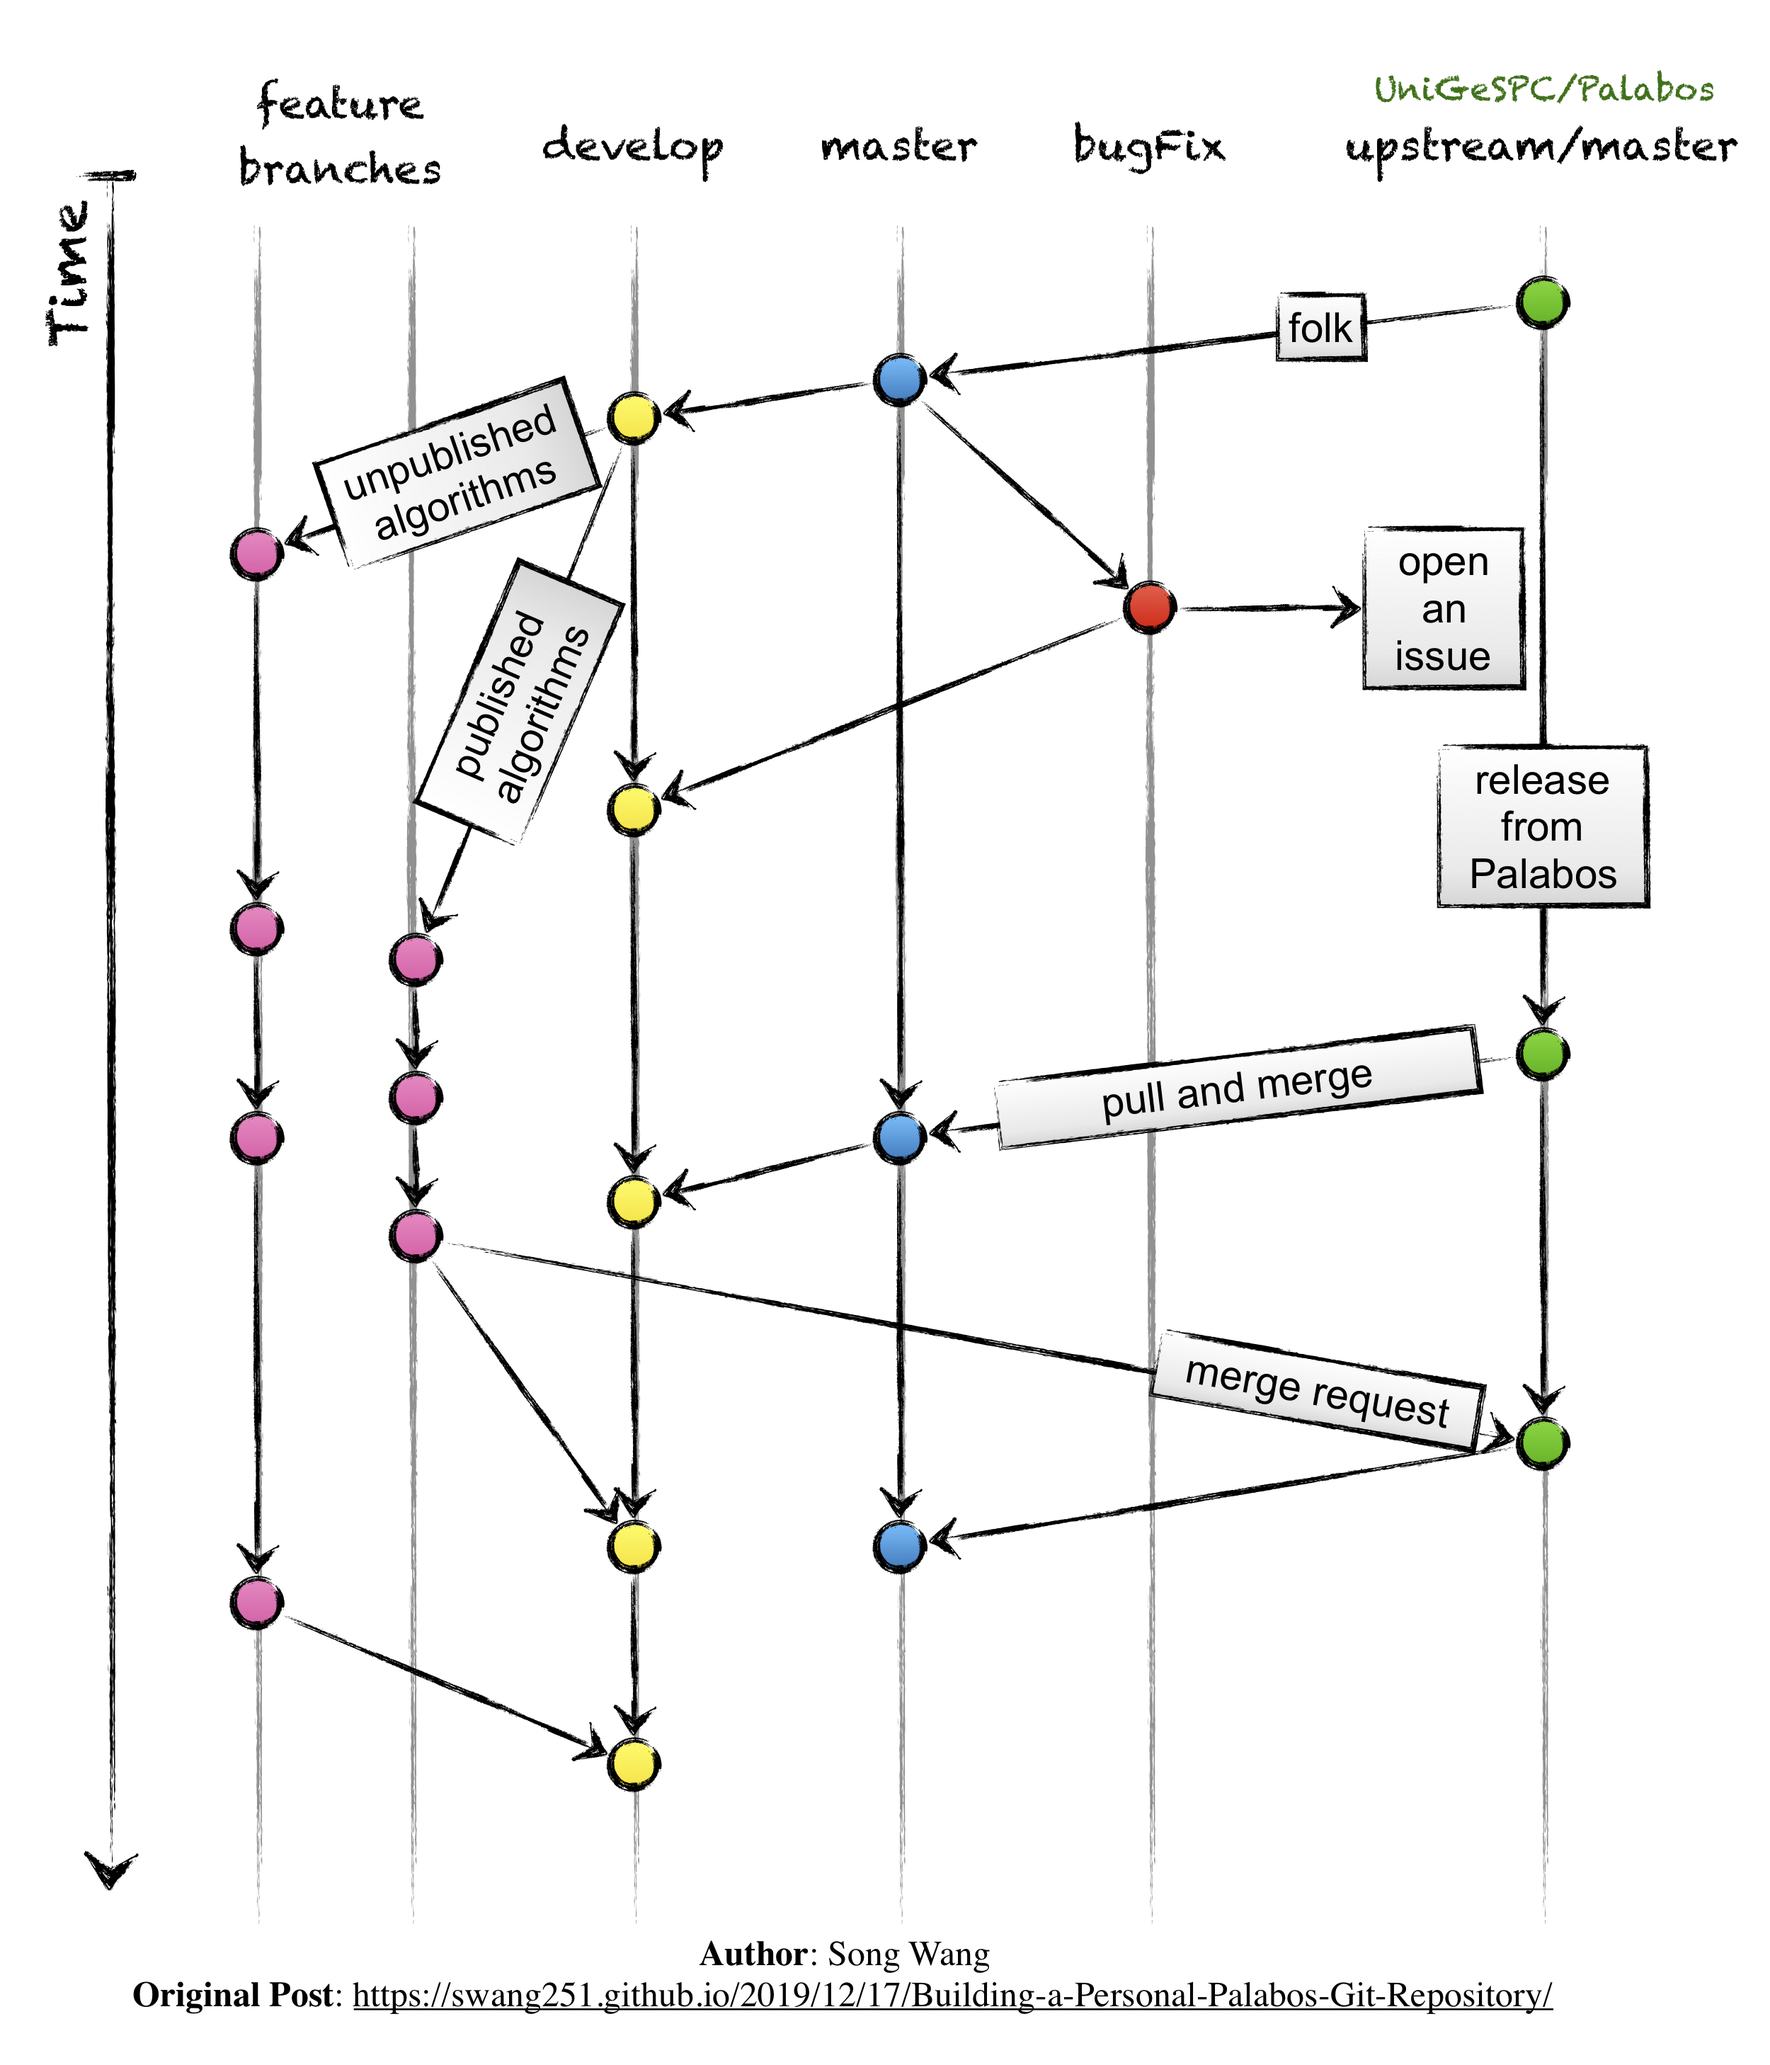
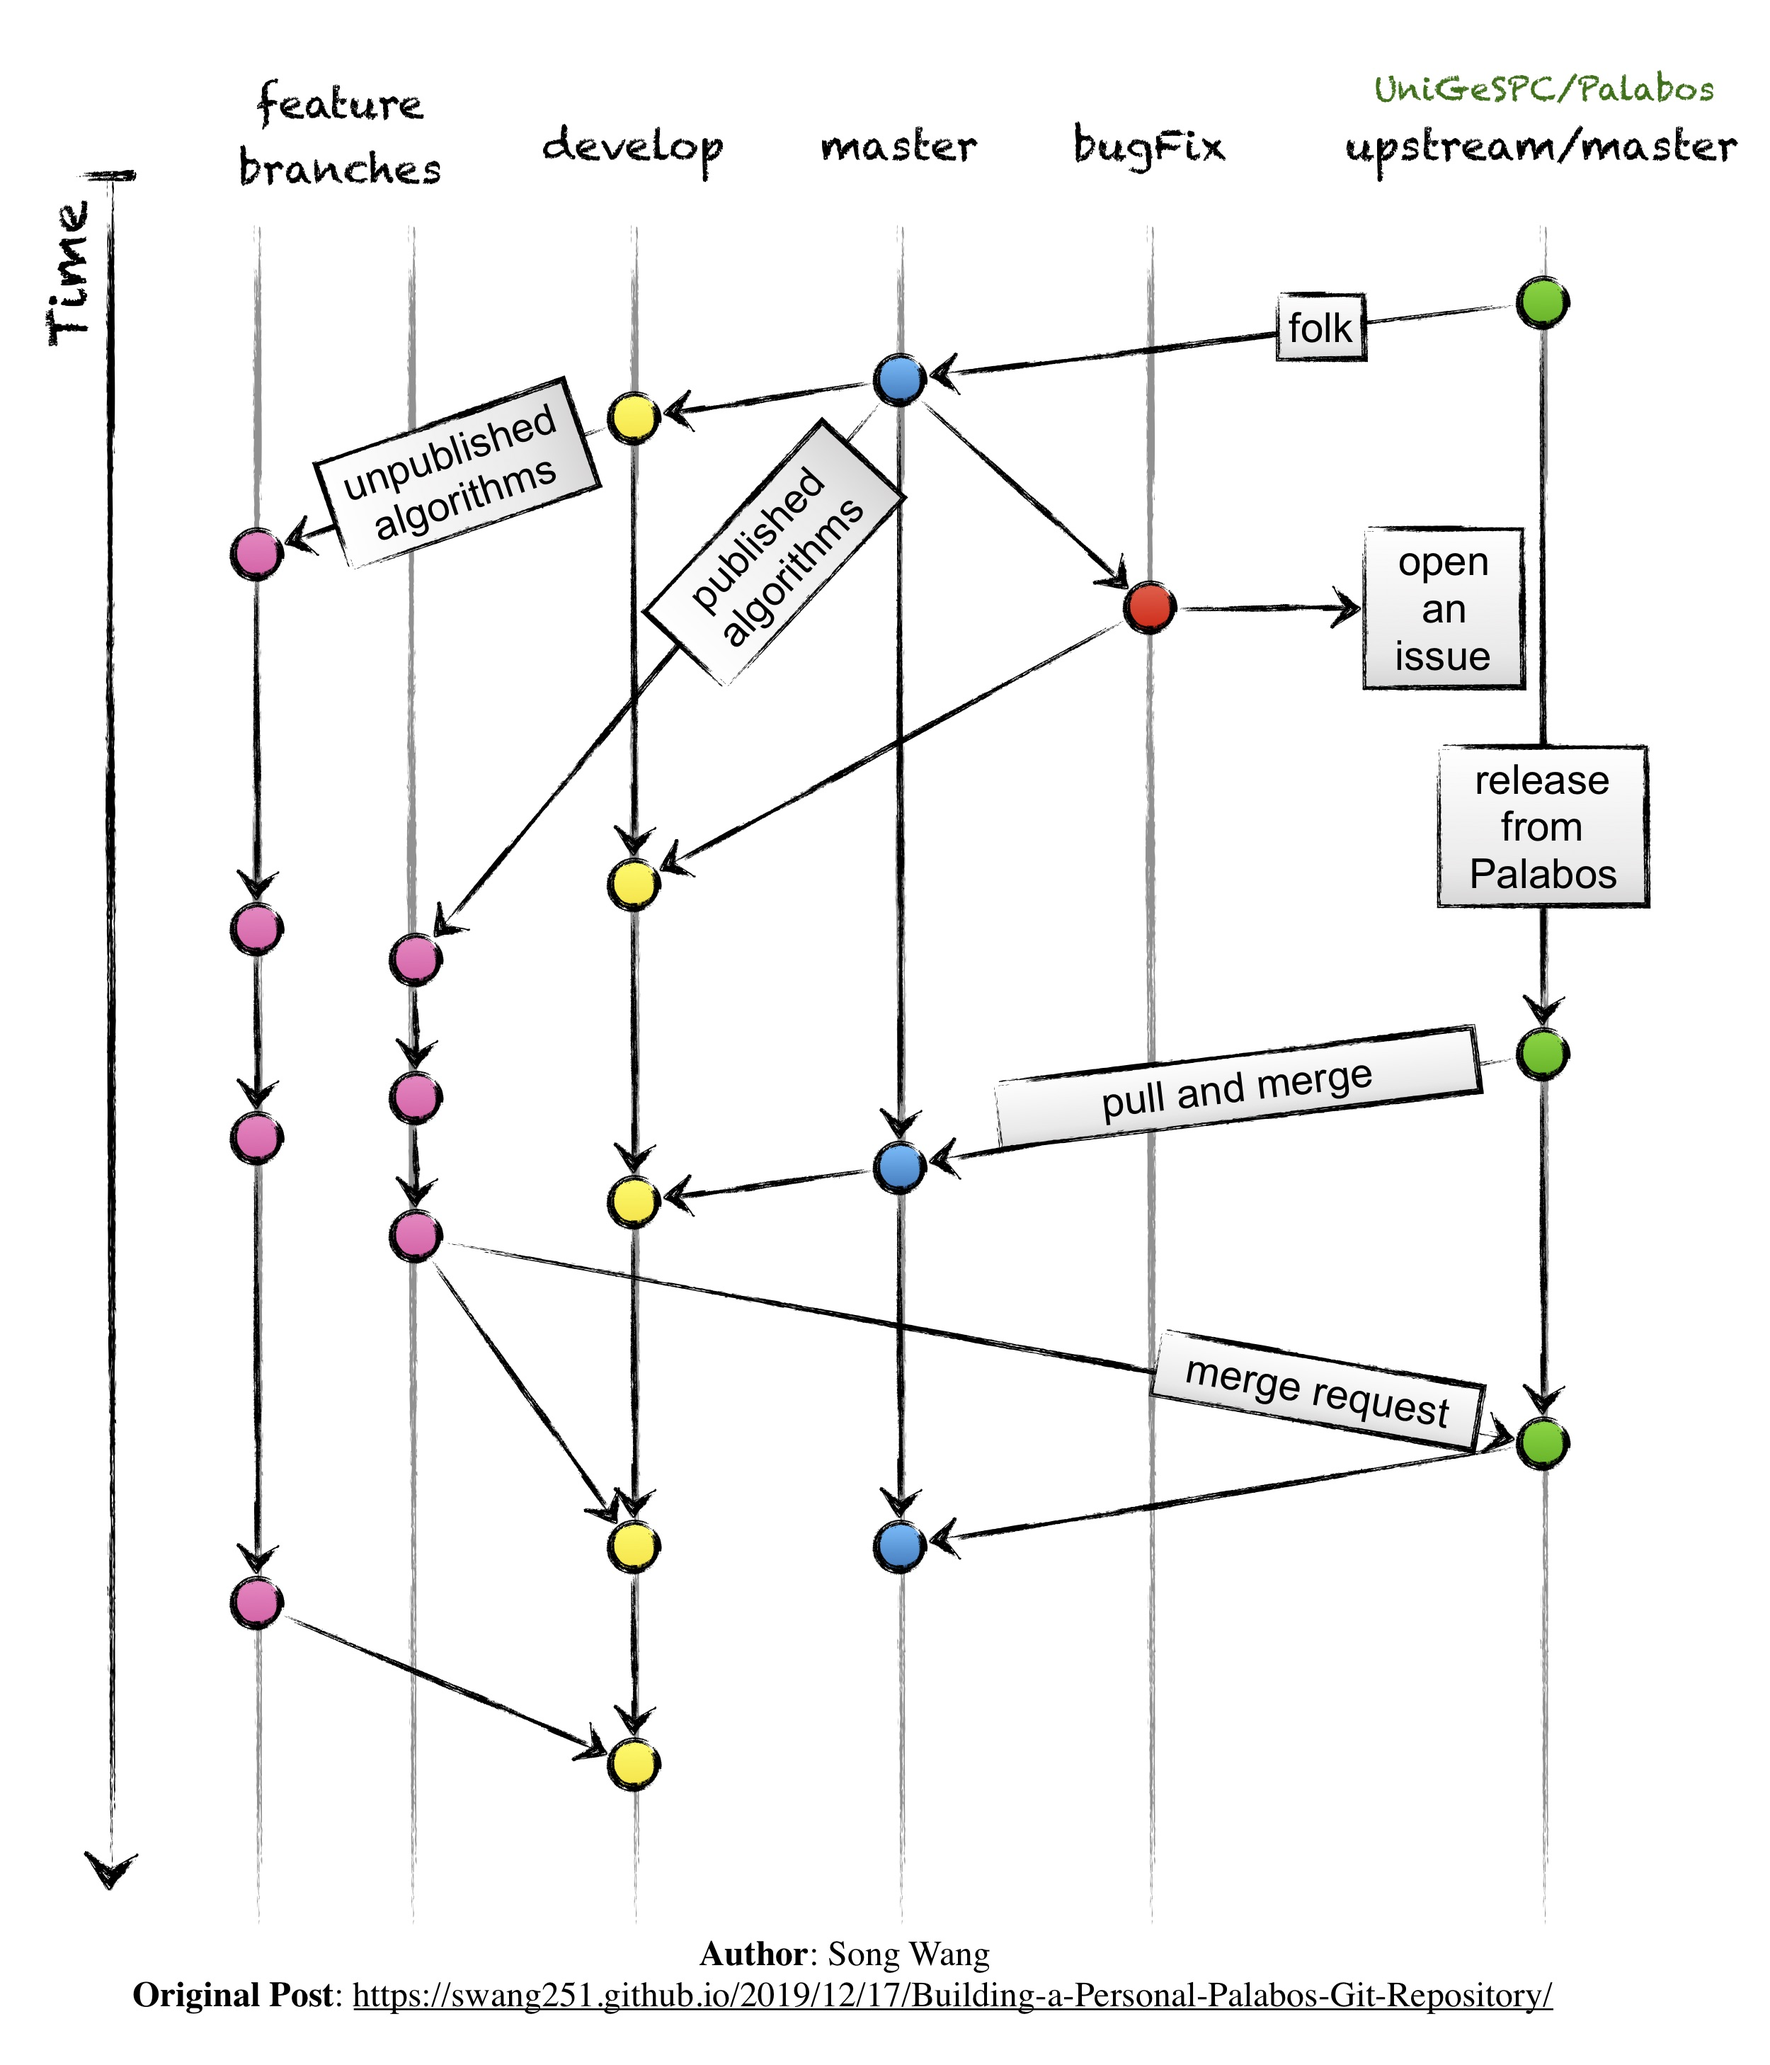
<Personal Palabos Git> modified the img

Changed region(s): [[0.2184, 0.1872, 0.5304, 0.4681], [0.3744, 0.4993, 0.5616, 0.5929], [0.468, 0.3121, 0.5928, 0.3745]]

diff --git a/source/_posts/Building-a-Personal-Palabos-Git-Repository.md b/source/_posts/Building-a-Personal-Palabos-Git-Repository.md
@@ -3,11 +3,11 @@ title: Building a Personal Palabos Git Repository
 mathjax: true
 toc: true
 date: 2019-12-17 01:05:22
-tags: Palabos, Git
-categories: Palabos, Research Daily
+tags: [Palabos, Git]
+categories: [Research Daily]
 ---
 [Palabos](https://palabos.unige.ch/) just released a new version (v2.1r0) and pushed everything on [GitLab](https://gitlab.com/unigespc/palabos). This is something that all the Palabos community used to looking forward and makes it easier for the users to get official updates and contribute their own code. Personally, I would like to build my own Palabos version with in-house developed code while keeping updated from the official one. In this post, I am trying to talk about the Git workflow I use, which is mainly based on the [Feature Branch Workflow](https://www.atlassian.com/git/tutorials/comparing-workflows/feature-branch-workflow) and the [Git Workflow](https://nvie.com/posts/a-successful-git-branching-model/).
-
+![](/images/20191217/PalabosGitFlow.jpg)
 <!--more-->
 ## Requirements
 The workflow has to at least fulfill the following requirements.
@@ -76,16 +76,24 @@ Remember here we always use the flag `--no-ff` to avoid fast-forward merge.
 > The --no-ff flag causes the merge to always create a new commit object, even if the merge could be performed with a fast-forward. This avoids losing information about the historical existence of a feature branch and groups together all commits that together added the feature. 
 
 ### Feature branch
-The **feature** branch is used for both algorithm implementations and new functions/dataProcessors. It can be used for implementing both published and unpublished algorithms. The **feature** branch has a name convention **feature-***. Whenever starting a new **feature**, it should be branched off from the **develop** branch.
+The **feature** branch is used for both algorithm implementations and new functions/dataProcessors. It can be used for implementing both published and unpublished algorithms. The **feature** branch has a name convention **feature-***. Whenever starting a new **feature**, it should be branched off from either the **master** branch or the **develop** branch.
+
+When you want to implement an algorithm that would be contributed to the upstream Palabos repository, you should branch off the **master** branch:
+```
+$ git checkout -b feature-DESCRIPTION master
+```
+Otherwise, you should branch off the **develop** branch:
 ```
 $ git checkout -b feature-DESCRIPTION develop
 ```
-When the development of a new feature is done and tested, it should be merged back to the **develop** branch. 
+
+When the development of a new feature is done and tested, it should be merged to the **develop** branch. 
 ```
 $ git checkout develop
 $ git merge --no-ff feature-DESCRIPTION
 $ git push origin develop
 ```
+
 If you want to [contribute](https://gitlab.com/unigespc/palabos/blob/master/CONTRIBUTING.md) this new feature to Palabos, you can create a [`merge request`](https://docs.gitlab.com/ee/gitlab-basics/add-merge-request.html).
 
 You can also delete this branch once it is merged to both the **develop** branch and the official Palabos.
@@ -109,5 +117,5 @@ However, the Palabos Group might also fix the bug in the upstream branches if yo
 ## Conclusion
 Generally, this framework should work for most of our daily development and usage based on Palabos. My main doubt now is about the **master** branch. As it does nothing but saving a copy of the upstream, it seems reasonablbe to remove it. Everytime we see an new release from the upstream, the **upstream/master** could be directly merged in to the **develop** branch. However, the **master** branch is still kept for now to make the structure clearer.
 
-Even though the workflow is not perfect, it allows us to maintain a customized Palabos while keeping the repository up-to-date with the upstream official Palabos. It is also easy to contribute to Palabos if you want. Here attached is the flow diagram which is made based on the [Vincent Driessen](https://nvie.com/posts/a-successful-git-branching-model/)'s template. Don't be hesitate to leave a message if you have any comments or suggestions. Thank you.
-![](/images/20191217/PalabosGitFlow.jpg)
+Even though the workflow is not perfect, it allows us to maintain a customized Palabos while keeping the repository up-to-date with the upstream official Palabos. It is also easy to contribute to Palabos if you want. The flow diagram showed at the beginning is made based on [Vincent Driessen](https://nvie.com/posts/a-successful-git-branching-model/)'s template. Don't be hesitate to leave a message if you have any comments or suggestions. Thank you.
+
